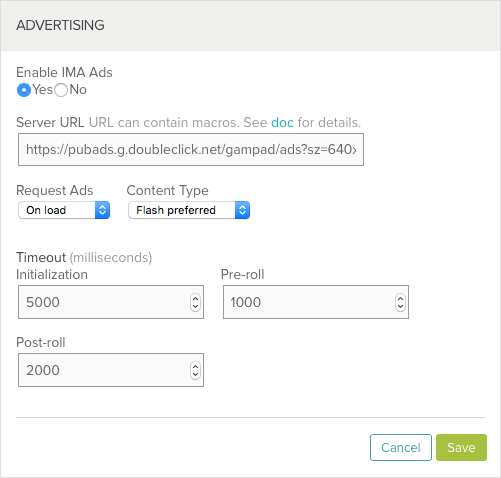
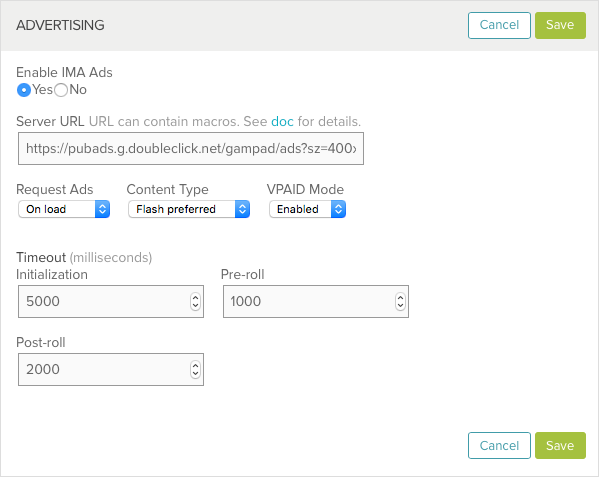
update for VPAID mode

diff --git a/en/perform/brightcove-player/guides/ima-plugin.html b/en/perform/brightcove-player/guides/ima-plugin.html
@@ -105,20 +105,26 @@
                   <li>Locate the <strong>Advertising</strong> section and click <strong>Edit</strong></li>
                   <li>Click <strong>Yes</strong> to enable IMA ads.</li>
                   <li>Enter the <strong>Server URL</strong> for the ad server.</li>
-                  <li>Select the <strong>Request Ads</strong> setting. </li>
-                  <li>
+                  <li>Select the <strong>Request Ads</strong> setting.
                     <ul>
                     <li><strong>On load -</strong> Ads are requested immediately when the player loads (this is normally the best experience for DFP / VPAID)</li>
                     <li><strong>On play -</strong> The first ad request is delayed until playback is initiated</li>
                     <li><strong>On demand -</strong> All ad requests will be initiated programmatically using the <code>player.ima3.adrequest()</code> method</li>
                     </ul>
                   </li>
-                  <li>Select the ad <strong>Content Type</strong>.    The Content Type determines the ad integration technologies to attempt to use. The player  will test each ad technology on initialization and use the first supported one for the lifetime of the player.</li>
-                  <li><ul>
+                  <li>Select the ad <strong>Content Type</strong>.    The Content Type determines the ad integration technologies to attempt to use. The player  will test each ad technology on initialization and use the first supported one for the lifetime of the player.
+                  <ul>
                     <li><strong>Flash preferred -</strong> Use Flash-based ads, if not available, use HTML5-based ads</li>
                     <li><strong>HTML5 preferred -</strong> Use HTML5-based ads, if not available, use Flash-based ads</li>
                     <li><strong>HTML5 only -</strong> Use only HTML5-based ads</li>
                   </ul></li>
+                  <li>Select the ad <strong>VPAID Mode</strong>.    The VPAID Mode is used to enable VPAID 2 support in IMA ads.
+                    <ul>
+                      <li><strong>Enabled -</strong> Play VPAID ads in an iframe with a different domain</li>
+                      <li><strong>Insecure -</strong> Play VPAID ads in an iframe with the same domain</li>
+                      <li><strong>Disabled -</strong> VPAID ads throw an error                  </li>
+                    </ul>
+                  </li>
                   <li>Set the <strong>Timeout</strong> values.
                     <ul>
                       <li><strong>Initialization -</strong> The maximum amount of time to wait, in milliseconds, for an ad  to initialize before playback</li>
@@ -128,7 +134,6 @@
                     <figure class="bcls-figure">
                         <img class="bcls-image" src="//learning-services-media.brightcove.com/doc-assets/player-development/advertising/ima3-plugin/studio-ad-props.png" alt="ad properties in Studio">
                     </figure>
-                    <div><img alt="" src="assets/studio-ad-props.png" /></div>
                   </li>
                   <li>Click <strong>Save</strong> to save the changes.</li>
               </ol>
@@ -136,7 +141,6 @@
               <figure class="bcls-figure">
                   <img class="bcls-image" src="//learning-services-media.brightcove.com/doc-assets/player-development/advertising/ima3-plugin/studio-ima-plugin-props.png" alt="IMA3 properties in Studio">
               </figure>
-              <div><img alt="" src="assets/studio-ima-plugin-props.png" /></div>
               <p>The IMA plugin does support additional properties that are not available in the UI. If needed, modify the IMA plugin JSON to include any other options you may need.</p>
               <aside class="bcls-aside bcls-aside--tip">Note: You may want to dynamically build the <code>serverURL</code> at the client (which means the IMA3 plugin would already be initialized), for example after a user login. You can do this by setting that value to an empty string in the <strong>options</strong> <code>{ "serverUrl": "" }</code>, then later assign the value programmatically.</aside>
             </section>
